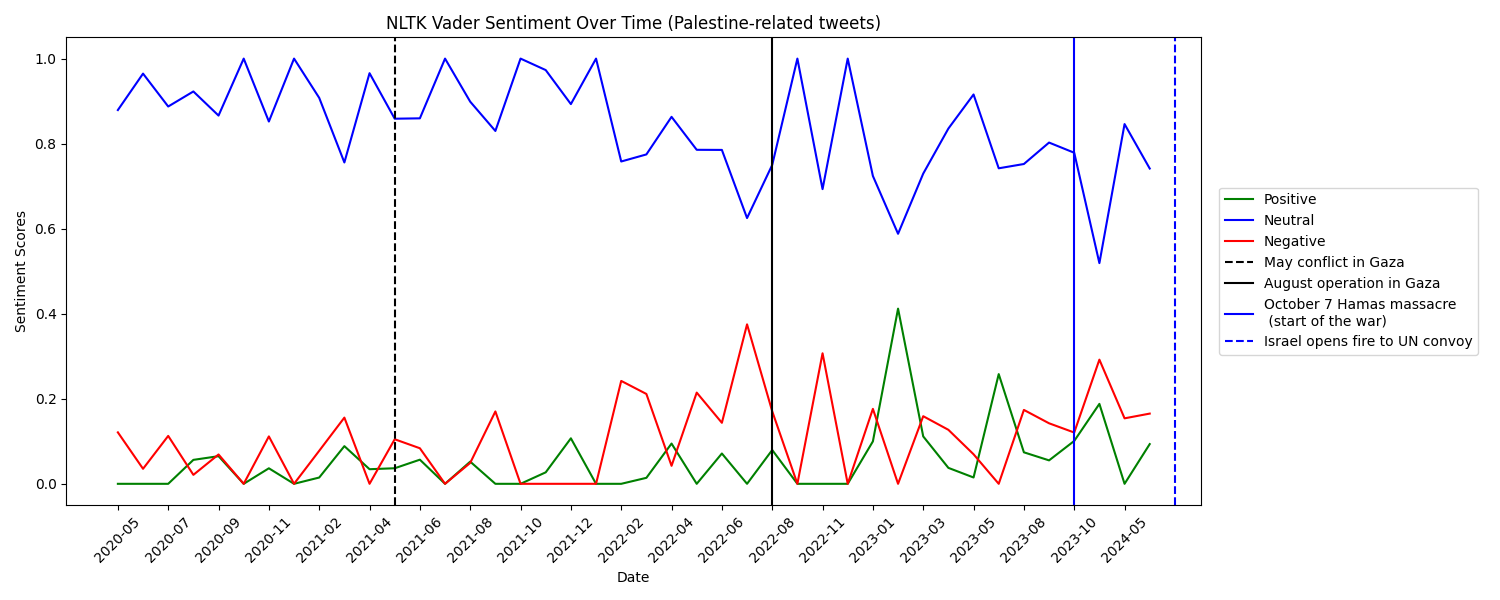
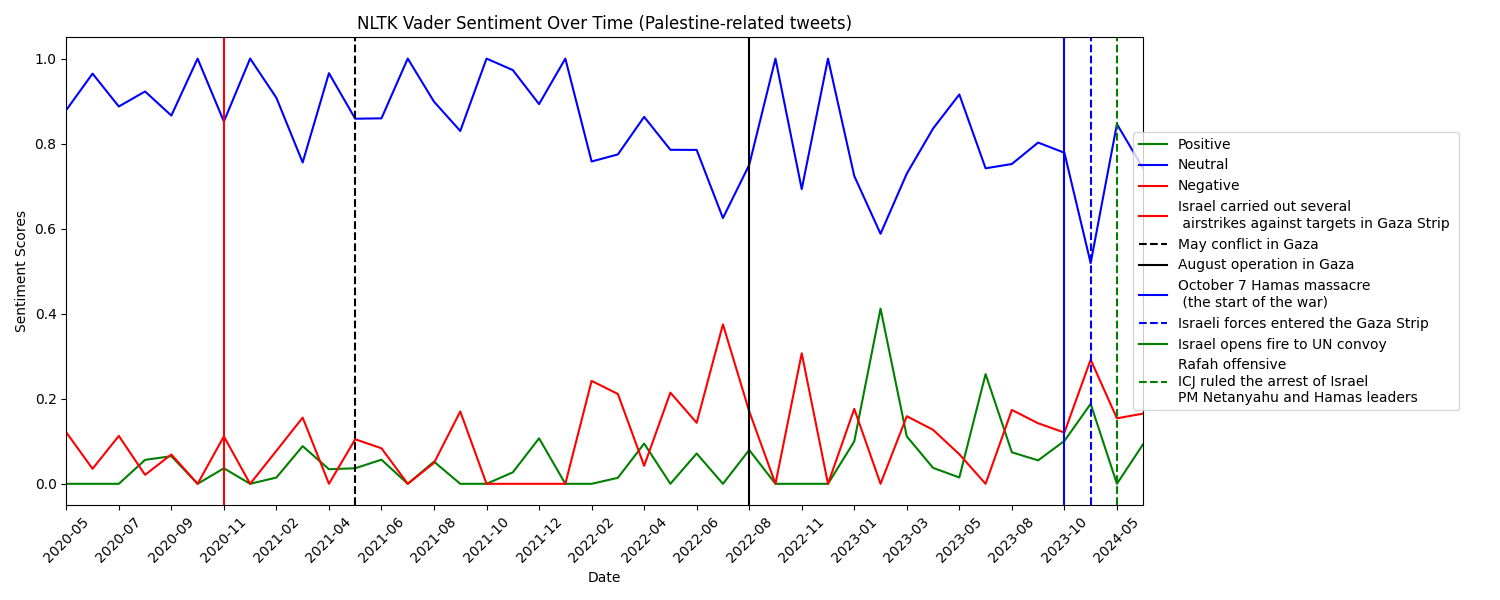
last fixes

diff --git a/src/sentiment/nltk_sentiment.py b/src/sentiment/nltk_sentiment.py
@@ -9,19 +9,25 @@ def adjust_data(df: pd.DataFrame) -> pd.DataFrame:
     df["date"] = pd.to_datetime(df["date"]).dt.strftime(
         "%Y-%m"
     )  # Convert to datetime type
-    df = df.drop(["processed_content"], axis=1)
     df = df.drop("hash_tags", axis=1)
     df = df.sort_values(by="date")
     return df
 
 
 def plot_sentiment(df: pd.DataFrame, title_part: str, file_name: str):
-    df_grouped = df.groupby("date").mean()
-    print(df_grouped)
+    numeric_cols = df.select_dtypes(include=np.number).columns
+    df_grouped = df.groupby("date")[numeric_cols].mean()
     dates = df_grouped.index.astype(str)
     pos = df_grouped["pos_sentiment"]
     neu = df_grouped["neu_sentiment"]
     neg = df_grouped["neg_sentiment"]
+    # Determine the overall date range
+    min_date = pd.to_datetime(df["date"]).min().strftime("%Y-%m")
+    max_date = pd.to_datetime(df["date"]).max().strftime("%Y-%m")
+    xlim = (min_date, max_date)  # Limit to year and month for x-axis
+    print(f"Plotting sentiment for {title_part}")
+    # print(df_grouped)  # Print the first few rows of the grouped DataFrame
+    print(f"xlim: {xlim}")  # Print xlim to check its values
 
     plt.figure(figsize=(15, 6))
     plt.plot(dates, pos, label="Positive", color="green")
@@ -31,7 +37,16 @@ def plot_sentiment(df: pd.DataFrame, title_part: str, file_name: str):
     plt.title(f"NLTK Vader Sentiment Over Time ({title_part})")
     plt.xlabel("Date")
     plt.ylabel("Sentiment Scores")
+
+    # Set x-ticks to skip some labels
     plt.xticks(dates[::2], rotation=45)
+
+    plt.axvline(
+        x="2020-11",
+        color="red",
+        linestyle="-",
+        label="Israel carried out several \n airstrikes against targets in Gaza Strip ",
+    )
     plt.axvline(
         x="2021-05", color="black", linestyle="--", label="May conflict in Gaza"
     )
@@ -42,18 +57,36 @@ def plot_sentiment(df: pd.DataFrame, title_part: str, file_name: str):
         x="2023-10",
         color="blue",
         linestyle="-",
-        label="October 7 Hamas massacre\n (start of the war)",
+        label="October 7 Hamas massacre\n (the start of the war)",
+    )
+    plt.axvline(
+        x="2023-11",
+        color="blue",
+        linestyle="--",
+        label="Israeli forces entered the Gaza Strip",
     )
     plt.axvline(
         x="2024-02",
-        color="blue",
-        linestyle="--",
+        color="green",
+        linestyle="-",
         label="Israel opens fire to UN convoy",
     )
-    plt.legend(loc="center right", bbox_to_anchor=(1.25, 0.5))
+    plt.axvline(
+        x="2024-05",
+        color="green",
+        linestyle="--",
+        label="Rafah offensive\nICJ ruled the arrest of Israel\nPM Netanyahu and Hamas leaders",
+    )
+
+    # Set consistent x-axis limits
+    if xlim:
+        plt.xlim(xlim)
+
+    plt.legend(loc="center right", bbox_to_anchor=(1.30, 0.5))
     plt.tight_layout()
 
     plt.savefig(f"./data/combined/{file_name}")
+    plt.close()
 
 
 if __name__ == "__main__":
@@ -81,6 +114,9 @@ if __name__ == "__main__":
         )
     ]
     palestine_df = adjust_data(palestine_only)
+    print("Filtered Palestine DataFrame head:")
+    # print(palestine_df.head())  # Print the first few rows of the Palestine DataFrame
+
     plot_sentiment(
         palestine_df, "Palestine-related tweets", "nltk-sentiment-palestine.png"
     )

diff --git a/src/words/bow.py b/src/words/bow.py
@@ -2,17 +2,14 @@ import pandas as pd
 from rich import print
 from sklearn.feature_extraction.text import CountVectorizer
 import matplotlib.pyplot as plt
-import matplotlib as mpl
 
 
 # Function to load preprocessed data
 def load_preprocessed():
     return pd.read_csv("./data/combined/preprocessed.csv")
 
-
 def sum_sort_key(e):
     return e[1]
-
 
 if __name__ == "__main__":
     # Load the data
@@ -40,28 +37,47 @@ if __name__ == "__main__":
                 "[bold red]Error: The count array is empty after transformation. Check the input data and CountVectorizer settings.[/bold red]"
             )
         else:
+            # Calculate total number of words in all documents
+            total_words = count_array.sum()
+
             # Create a DataFrame from the dense array with appropriate column names
             df_count = pd.DataFrame(
                 data=count_array, columns=count_vect.get_feature_names_out()
             )
+
             summed = count_array.sum(axis=0)
             summed_with_labels = list(zip(count_vect.get_feature_names_out(), summed))
+
+            # Calculate term frequency relative to all documents
+            for i, (word, count) in enumerate(summed_with_labels):
+                tf = count / total_words
+                summed_with_labels[i] = (word, count, tf)
+
+            # Sort by count (descending order)
             summed_with_labels.sort(key=sum_sort_key, reverse=True)
+
+            # Save summed_with_labels to a CSV file
+            df_summed = pd.DataFrame(
+                summed_with_labels, columns=["Word", "Count", "TF"]
+            )
+            df_summed.to_csv("./data/combined/word-frequencies.csv", index=False)
+
             head_20 = summed_with_labels[:20]
-            head_20_X = [x for x, _ in head_20]
-            head_20_y = [y for _, y in head_20]
+            head_20_X = [x for x, _, _ in head_20]
+            head_20_y = [y for _, y, _ in head_20]
+
             print(head_20_X)
             plt.figure(figsize=(19, 10))
             plt.bar(head_20_X, head_20_y)
-            plt.title("Most common words in all gathered tweets")
+            plt.title("Most common words in all of the gathered tweets")
             plt.xlabel("Word")
-            plt.ylabel("Occurencies")
+            plt.ylabel("Occurrences")
 
             plt.autoscale(tight=True)
             plt.savefig("./data/combined/most-common-words.png")
+
             # Print the resulting DataFrame
             print("[bold green]CountVectorizer result:[/bold green]")
-            # df_count.to_csv("./data/combined/bow.csv")
 
-            bow = pd.DataFrame(summed_with_labels)
-            bow.to_csv("./data/combined/bow.csv")
+            # Optionally, save the full bag of words DataFrame
+            df_count.to_csv("./data/combined/bow.csv")

diff --git a/src/topic_modelling/tm.py b/src/topic_modelling/tm.py
@@ -5,6 +5,7 @@ from bertopic import BERTopic
 from sklearn.datasets import fetch_20newsgroups
 import PIL.Image as Img
 import io
+from spacy.tokens import DocBin
 
 
 def read_bag_of_words() -> pd.DataFrame:
@@ -54,8 +55,10 @@ def create_tm():
 def read_tm():
     # Deserialize later, e.g. in a new process
     nlp = spacy.blank("en")
-    doc_bin = DocBin().from_bytes(bytes_data)
-    docs = list(doc_bin.get_docs(nlp.vocab))
+    topic_model = BERTopic(language="multilingual")
+
+    nlp=nlp.from_disk("./data/combined/tm.model")
+    topic_model
     # https://spacy.io/usage/saving-loading
 
 

diff --git a/README.md b/README.md
@@ -1,1 +1,44 @@
-TODO
+### Instalacja zależności
+Wszelkie zależności znajdują się w pliku `pyproject.toml`
+
+Projekt został stworzony za pomocą wirtualnego środowiska `Poetry` i w ten sposób najlepiej go odpalać:
+```bash
+poetry shell
+poetry install
+poetry run python -m ...
+```
+
+By odpalić poszczególne moduły:
+
+```bash
+poetry run python -m {moduł}
+```
+
+### Moduły:
+Wszelkie dane stworzone przez poniższe moduły będą pojawiać się w folderze `./data`
+
+ Pobieranie danych:
+
+W pliku `.env` w folderze `scrap` winny znajdować się loginy i hasła do kont email/twitter zgodnie ze strukturą w pliku `.env.example`
+
+`src.scrap.scrap_twitter`
+
+ Preprocessing danych:
+
+ `src.preprocess.preprocess`
+
+Tworzenie Bag of words:
+
+`src.words.bow`
+
+Tworzenie Word Clouds:
+
+`src.words.cow`
+
+Topic modelling:
+
+`src.topic_modelling.tm`
+
+Analiza sentymentu:
+
+`src.sentiment.nltk_sentiment`
